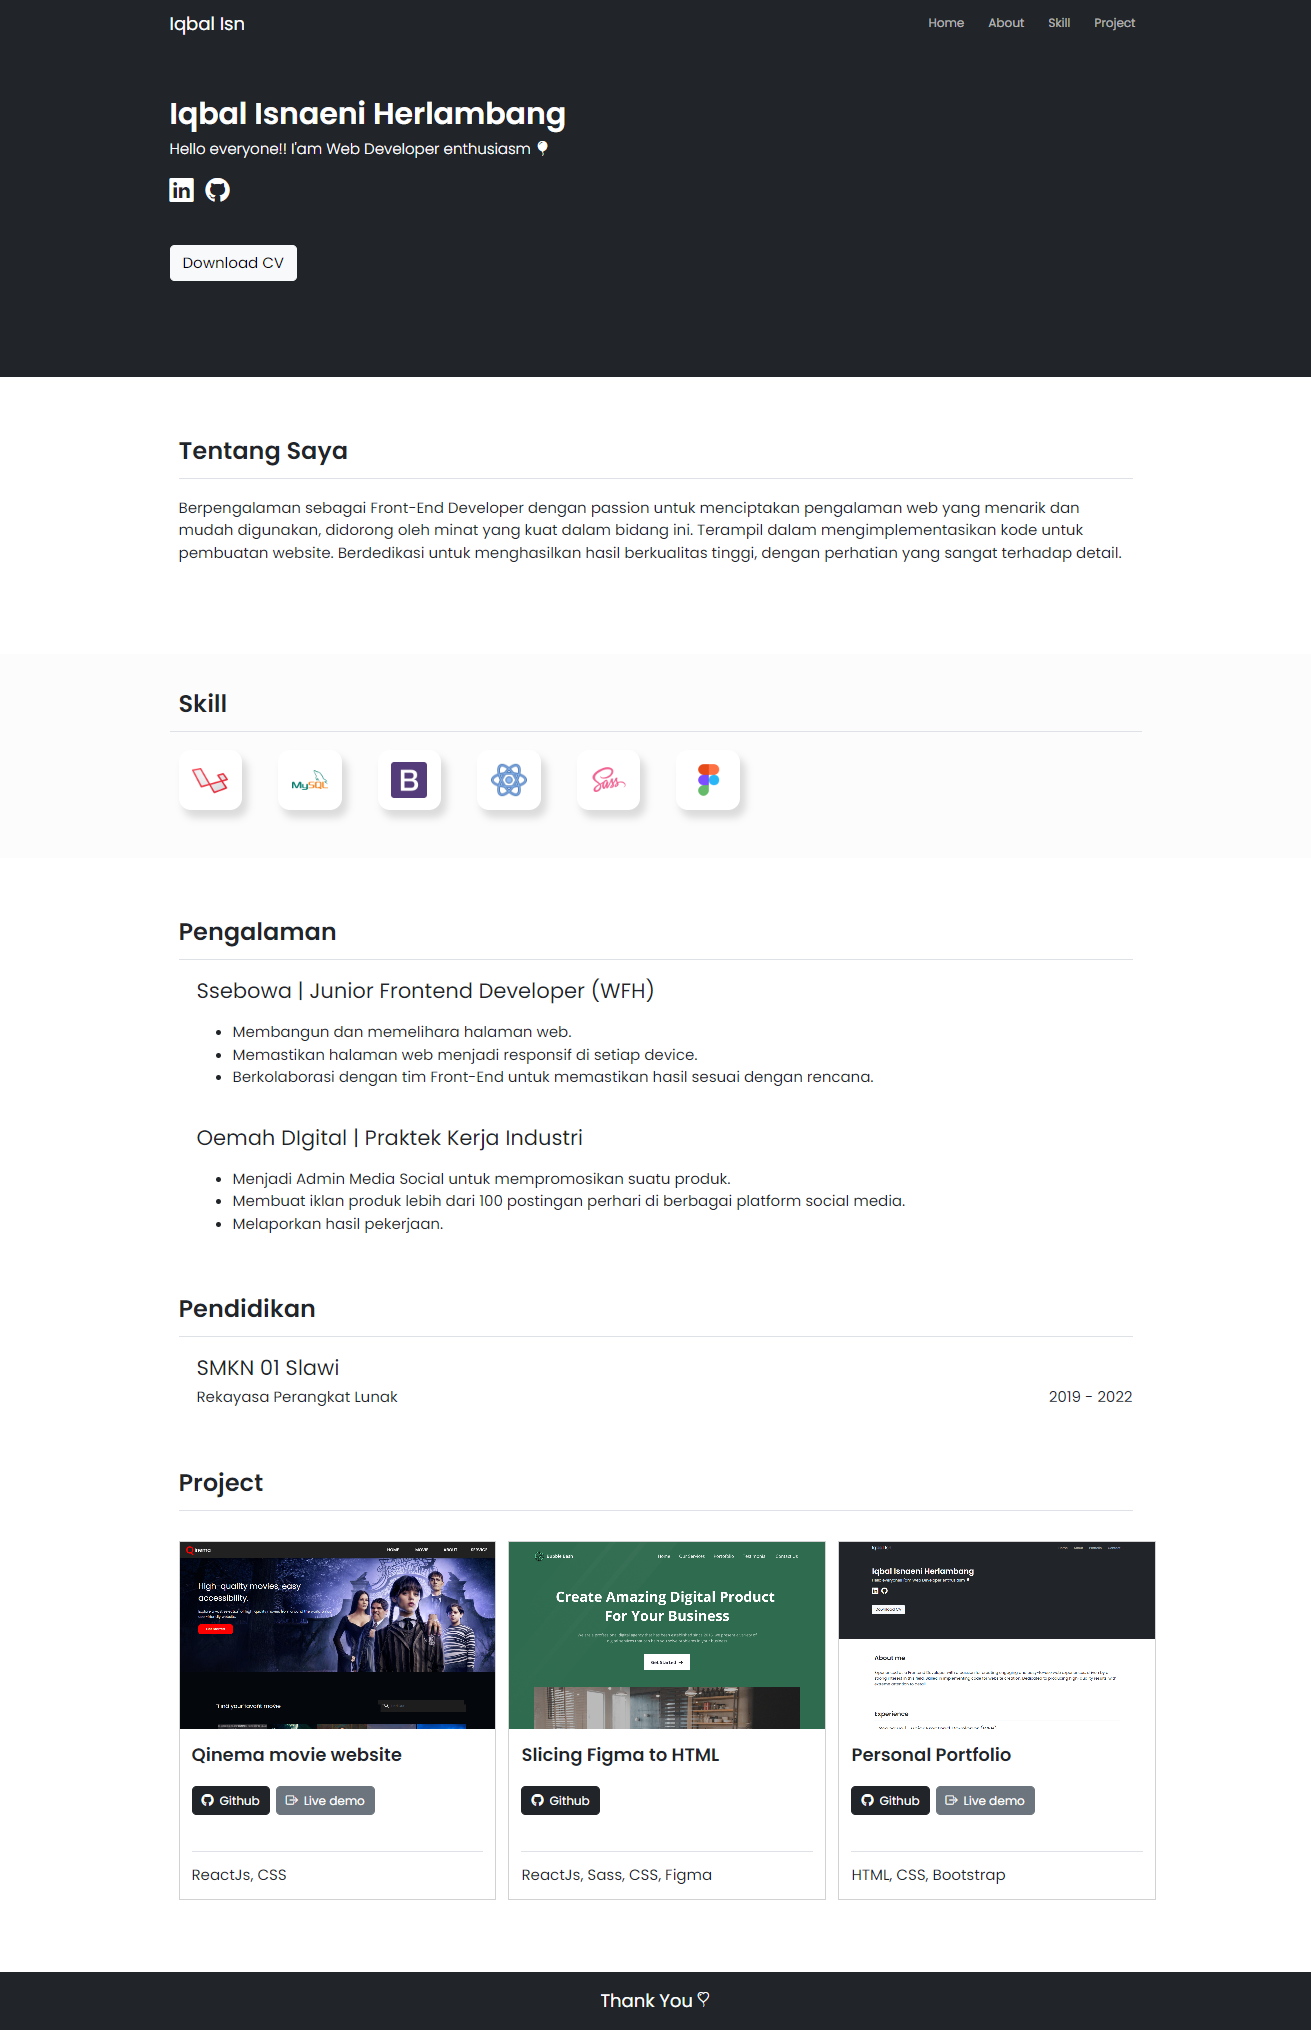
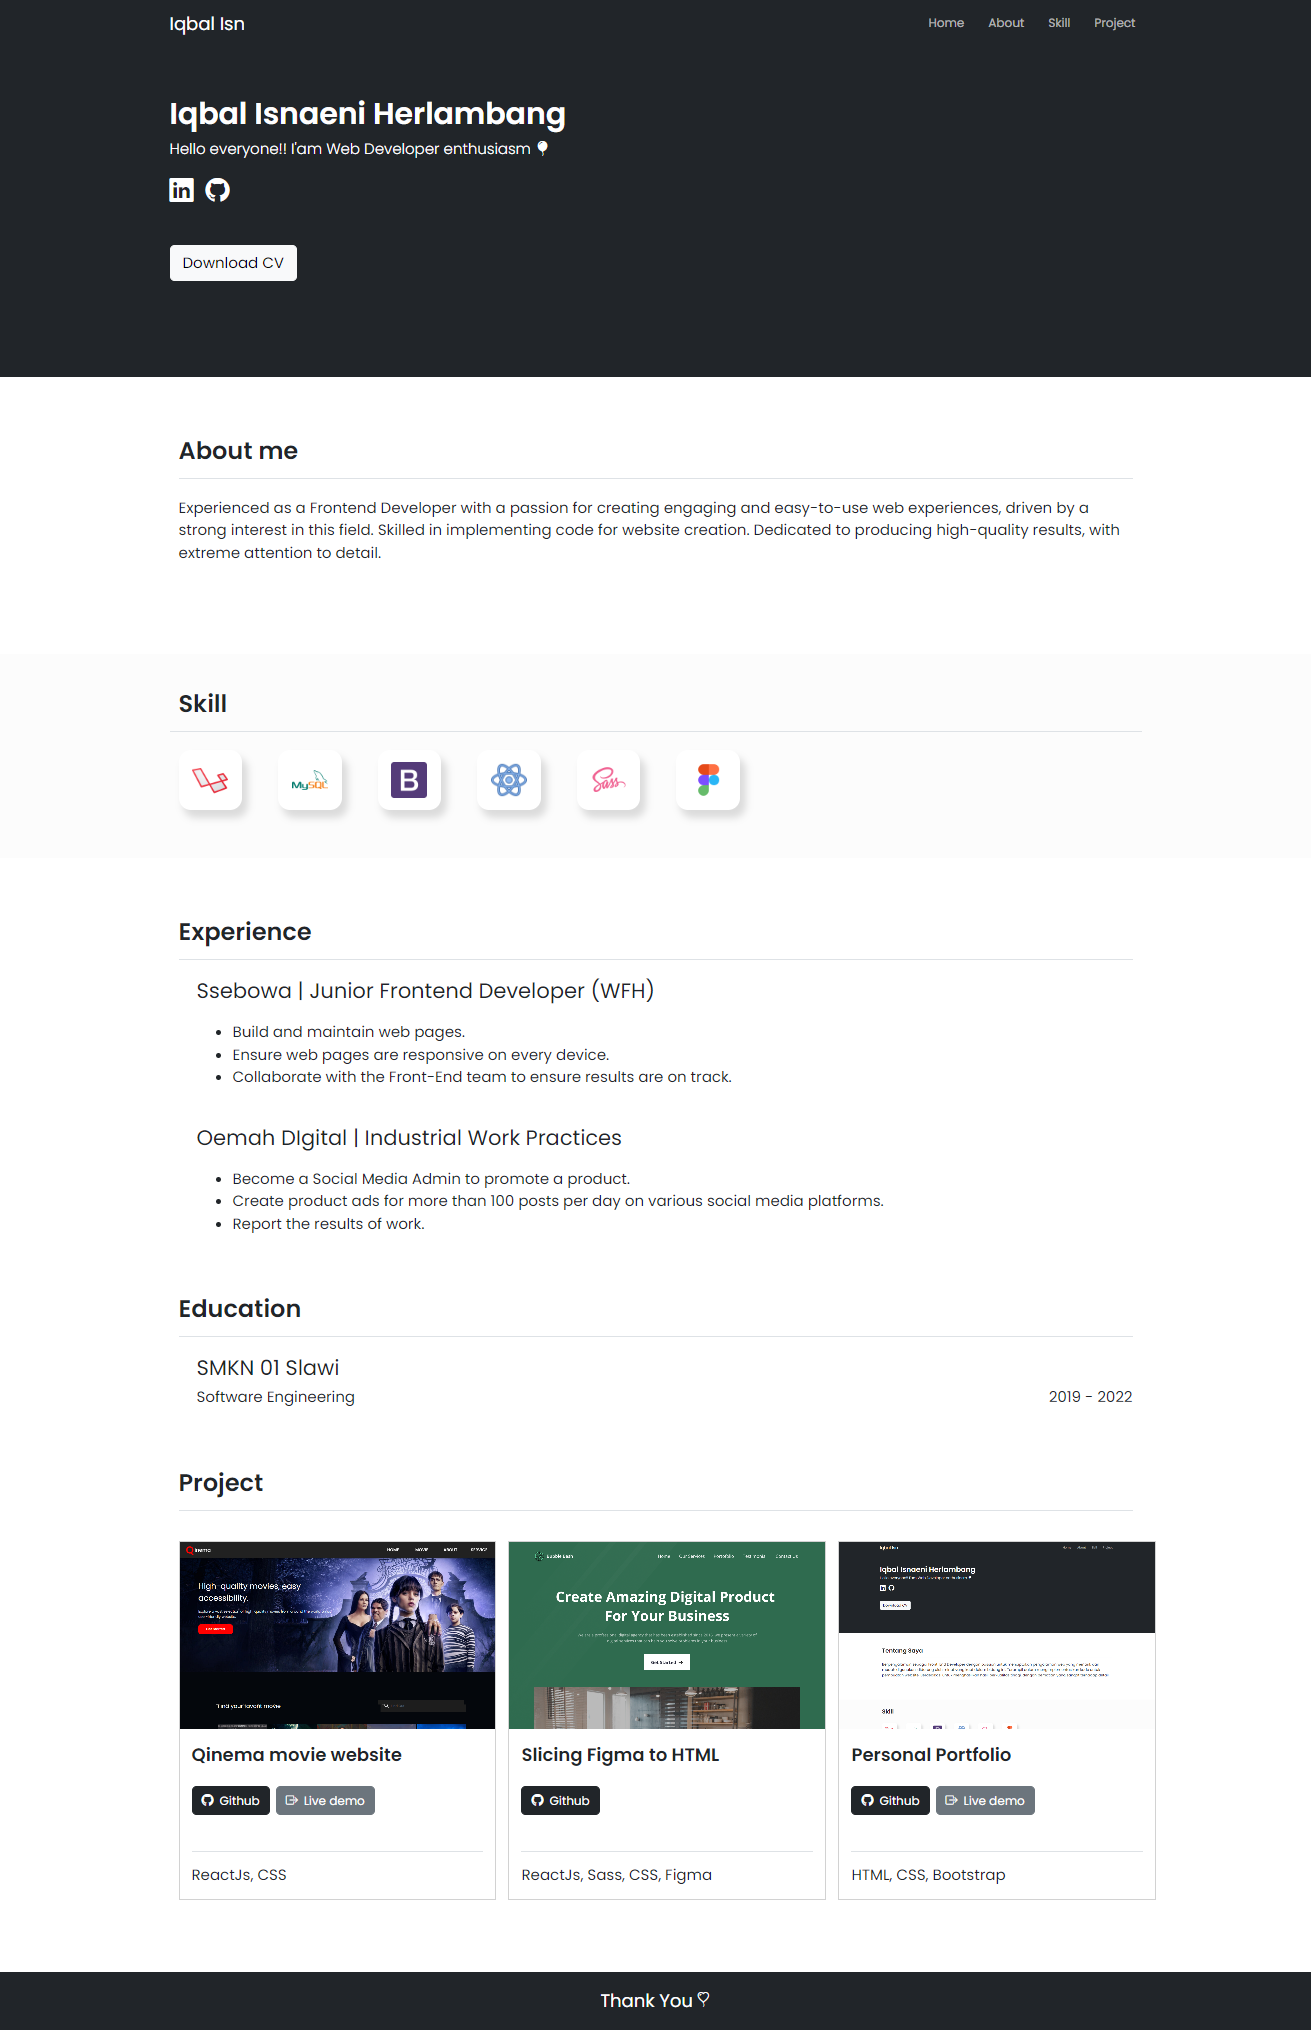
update

diff --git a/index.html b/index.html
@@ -94,14 +94,13 @@
       <div class="container">
         <div class="row m-section">
           <div class="col-lg-12 text-dark">
-            <h2 class="fw-bold fs-2 mb-4 border-bottom pb-3">Tentang Saya</h2>
+            <h2 class="fw-bold fs-2 mb-4 border-bottom pb-3">About me</h2>
             <p class="fw-medium fs-5 pb-4">
-              Berpengalaman sebagai Front-End Developer dengan passion untuk
-              menciptakan pengalaman web yang menarik dan mudah digunakan,
-              didorong oleh minat yang kuat dalam bidang ini. Terampil dalam
-              mengimplementasikan kode untuk pembuatan website. Berdedikasi
-              untuk menghasilkan hasil berkualitas tinggi, dengan perhatian yang
-              sangat terhadap detail.
+              Experienced as a Frontend Developer with a passion for creating
+              engaging and easy-to-use web experiences, driven by a strong
+              interest in this field. Skilled in implementing code for website
+              creation. Dedicated to producing high-quality results, with
+              extreme attention to detail.
             </p>
           </div>
         </div>
@@ -184,33 +183,31 @@
     <div class="container">
       <div class="row m-section">
         <div class="col-lg-12 text-dark">
-          <h2 class="fw-bold fs-2 mb-4 border-bottom pb-3">Pengalaman</h2>
+          <h2 class="fw-bold fs-2 mb-4 border-bottom pb-3">Experience</h2>
           <div class="experience mt-3 ms-4">
             <h3 class="fs-bold fs-3">
               Ssebowa | Junior Frontend Developer (WFH)
             </h3>
             <ul class="list-group list-group-flush fs-5 fw-normal ms-5 mt-4">
-              <li>Membangun dan memelihara halaman web.</li>
+              <li>Build and maintain web pages.</li>
+              <li>Ensure web pages are responsive on every device.</li>
               <li>
-                Memastikan halaman web menjadi responsif di setiap device.
-              </li>
-              <li>
-                Berkolaborasi dengan tim Front-End untuk memastikan hasil sesuai
-                dengan rencana.
+                Collaborate with the Front-End team to ensure results are on
+                track.
               </li>
             </ul>
           </div>
           <div class="experience mt-5 ms-4">
-            <h3 class="fs-bold fs-3">Oemah DIgital | Praktek Kerja Industri</h3>
+            <h3 class="fs-bold fs-3">
+              Oemah DIgital | Industrial Work Practices
+            </h3>
             <ul class="list-group list-group-flush fs-5 fw-normal ms-5 mt-4">
+              <li>Become a Social Media Admin to promote a product.</li>
               <li>
-                Menjadi Admin Media Social untuk mempromosikan suatu produk.
+                Create product ads for more than 100 posts per day on various
+                social media platforms.
               </li>
-              <li>
-                Membuat iklan produk lebih dari 100 postingan perhari di
-                berbagai platform social media.
-              </li>
-              <li>Melaporkan hasil pekerjaan.</li>
+              <li>Report the results of work.</li>
             </ul>
           </div>
         </div>
@@ -222,13 +219,13 @@
     <div class="container mt-4">
       <div class="row m-section">
         <div class="col-lg-12 text-dark">
-          <h2 class="fw-bold fs-2 mb-4 border-bottom pb-3">Pendidikan</h2>
+          <h2 class="fw-bold fs-2 mb-4 border-bottom pb-3">Education</h2>
           <div class="experience mt-3 ms-4">
             <h3 class="fs-bold fs-3">SMKN 01 Slawi</h3>
             <div
               class="education fs-5 fw-normal d-flex justify-content-between"
             >
-              <li class="list-group-item">Rekayasa Perangkat Lunak</li>
+              <li class="list-group-item">Software Engineering</li>
               <li class="list-group-item">2019 - 2022</li>
             </div>
           </div>
